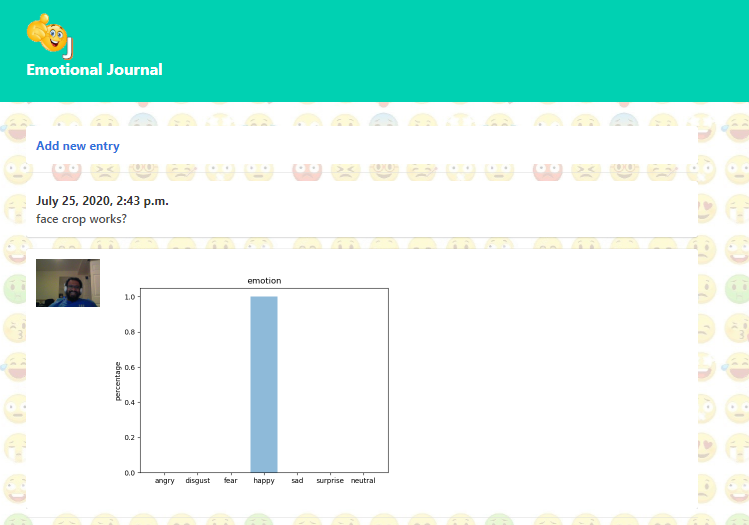
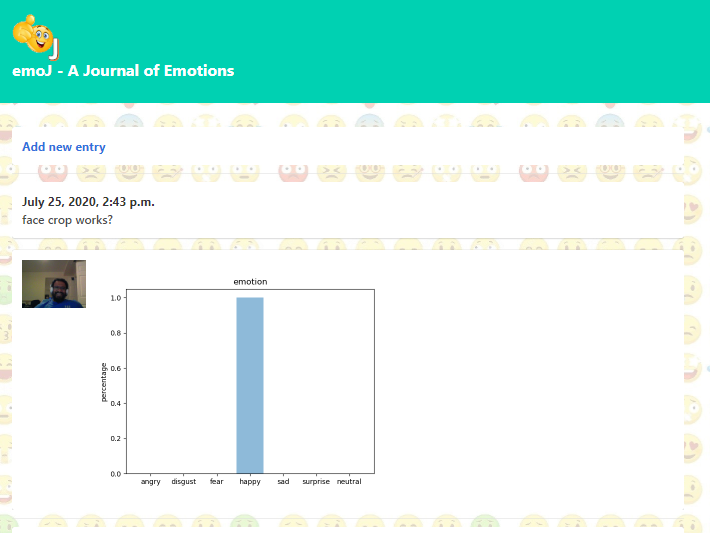
images update

diff --git a/emoJ/templates/entries/index.html b/emoJ/templates/entries/index.html
@@ -5,7 +5,7 @@
     <meta charset="UTF-8">
     <meta name="viewport" content="width=device-width, initial-scale=1.0">
     <meta http-equiv="X-UA-Compatible" content="ie=edge">
-    <title>Emotional Journal</title>
+    <title>emoJ</title>
     <link rel="stylesheet" href="https://cdnjs.cloudflare.com/ajax/libs/bulma/0.6.2/css/bulma.min.css" />
     <style>
         body {
@@ -24,7 +24,7 @@
                     <img src="/media/logo.png" alt="">
                 </figure>
                 <h1 class="title has-text-weight-bold">
-                    Emotional Journal
+                    emoJ - A Journal of Emotions
                 </h1>
             </div>
         </div>

diff --git a/emoJ/templates/entries/add.html b/emoJ/templates/entries/add.html
@@ -5,7 +5,7 @@
     <meta charset="UTF-8">
     <meta name="viewport" content="width=device-width, initial-scale=1.0">
     <meta http-equiv="X-UA-Compatible" content="ie=edge">
-    <title>Emotional Journal</title>
+    <title>emoJ </title>
     <link rel="stylesheet" href="https://cdnjs.cloudflare.com/ajax/libs/bulma/0.6.2/css/bulma.min.css" />
 </head>
 
@@ -17,7 +17,7 @@
                     <img src="/media/logo.png" alt="">
                 </figure>
                 <h1 class="title has-text-weight-bold">
-                    Emotional Journal - data entry form
+                    emoJ - data entry form
                 </h1>
             </div>
         </div>
